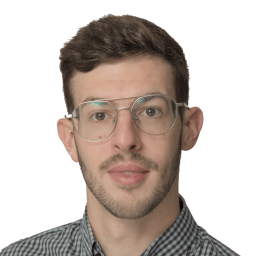
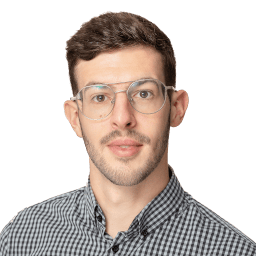
feat(profile): use professionally rendered photos
remove grayscale effect to keep img quality
improve image descriptions
link "profile.jpg" at root
document symlink not working locally

(cherry picked from commit 79461c1791a8fe5e8587954ac3b66208492e194e)

diff --git a/src/app/profile/profile.component.html b/src/app/profile/profile.component.html
@@ -1,8 +1,9 @@
 <!--suppress HtmlUnknownBooleanAttribute (priority attr doesn't need a value!), CheckImageSize -->
 <div class="picture">
-  <img alt="A portrait of {{ realName }}. Appears surprised" class="huh"
+  <img alt="Another portrait of {{ realName }} wearing the same and in the same pose. But appears surprised" class="huh"
        height="128" ngSrc="assets/img/profile_huh.png" width="128">
-  <img alt="A portrait of {{ realName }}. Slightly smiling and wearing geek'ish glasses" class="main"
+  <img alt="A portrait of {{ realName }}. Slightly smiling. Wears 80'ish glasses and a green and black plaid shirt"
+       class="main"
        height="128" ngSrc="assets/img/profile.png" priority width="128">
   <div class="comment">
     Hey! 👋 Did you <span class="touch">tap</span><span class="hover">hover</span> me?

diff --git a/src/_theming.scss b/src/_theming.scss
@@ -33,7 +33,6 @@
  */
 $themes: (
   light: (
-    img-grayscale: 0,
     background: (
       z0: #f8f9f9ff,
       z1: #f1f3f4ff,
@@ -74,7 +73,6 @@ $themes: (
     ),
   ),
   dark: (
-    img-grayscale: 0.4,
     background: (
       z0: #202023ff,
       z1: #292a2dff,

diff --git a/src/app/profile/_profile-theme.scss b/src/app/profile/_profile-theme.scss
@@ -6,7 +6,6 @@
       img {
         background-color: map-get($background-palette, z2);
         border-color: map-get($theme, hairline);
-        filter: grayscale(map-get($theme, img-grayscale));
       }
 
       .comment {

diff --git a/README.md b/README.md
@@ -46,6 +46,12 @@ won't be in sync.
 
 [npm-pre-post-scripts]: https://docs.npmjs.com/cli/v9/using-npm/scripts#pre--post-scripts
 
+## Quirks
+
+### Symlinked static assets don't work when serving locally
+
+When using Angular's development server (either regular or SSR one), symbolic links seem not to work for static assets. So for instance `/profile.jpg` which is symlinked to `/assets/img/og.jpg` won't be served. And the server will redirect you towards main page (`/`). It works when building though, so it will appear in the built version.
+
 ## Further help
 
 To get more help on the Angular CLI use `ng help` or go check out
